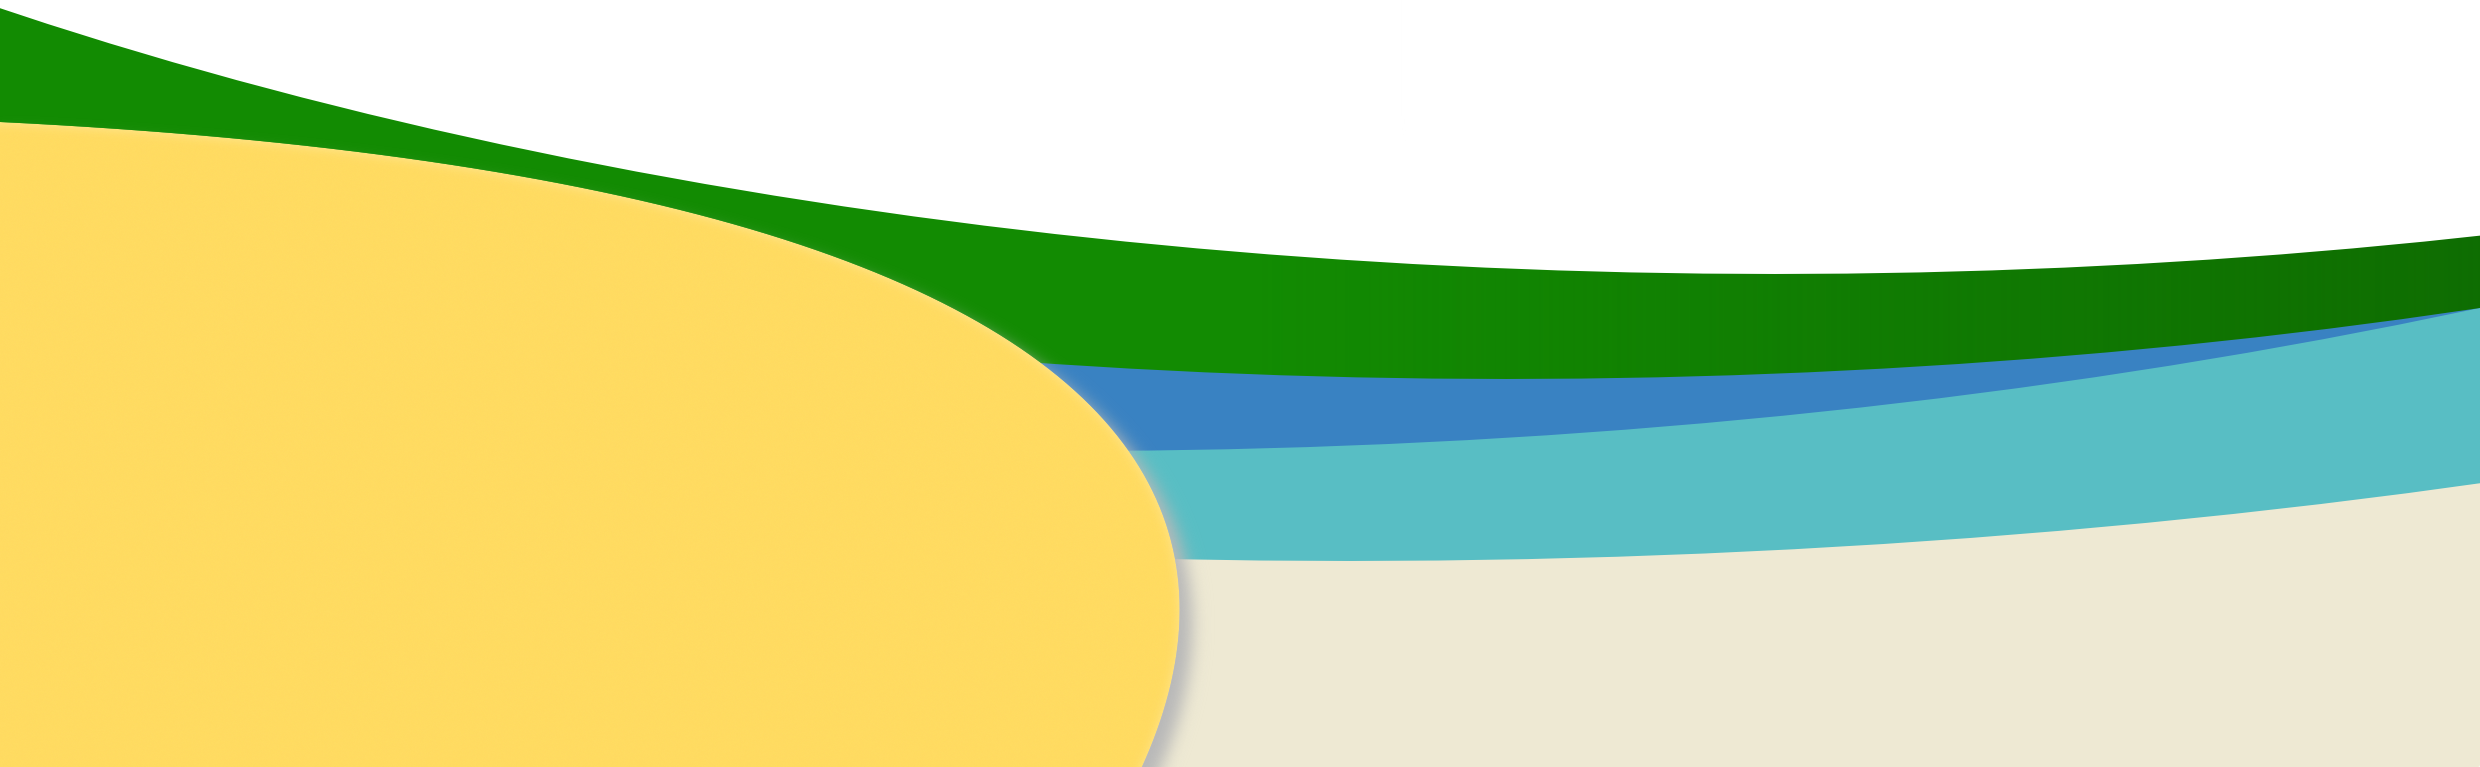
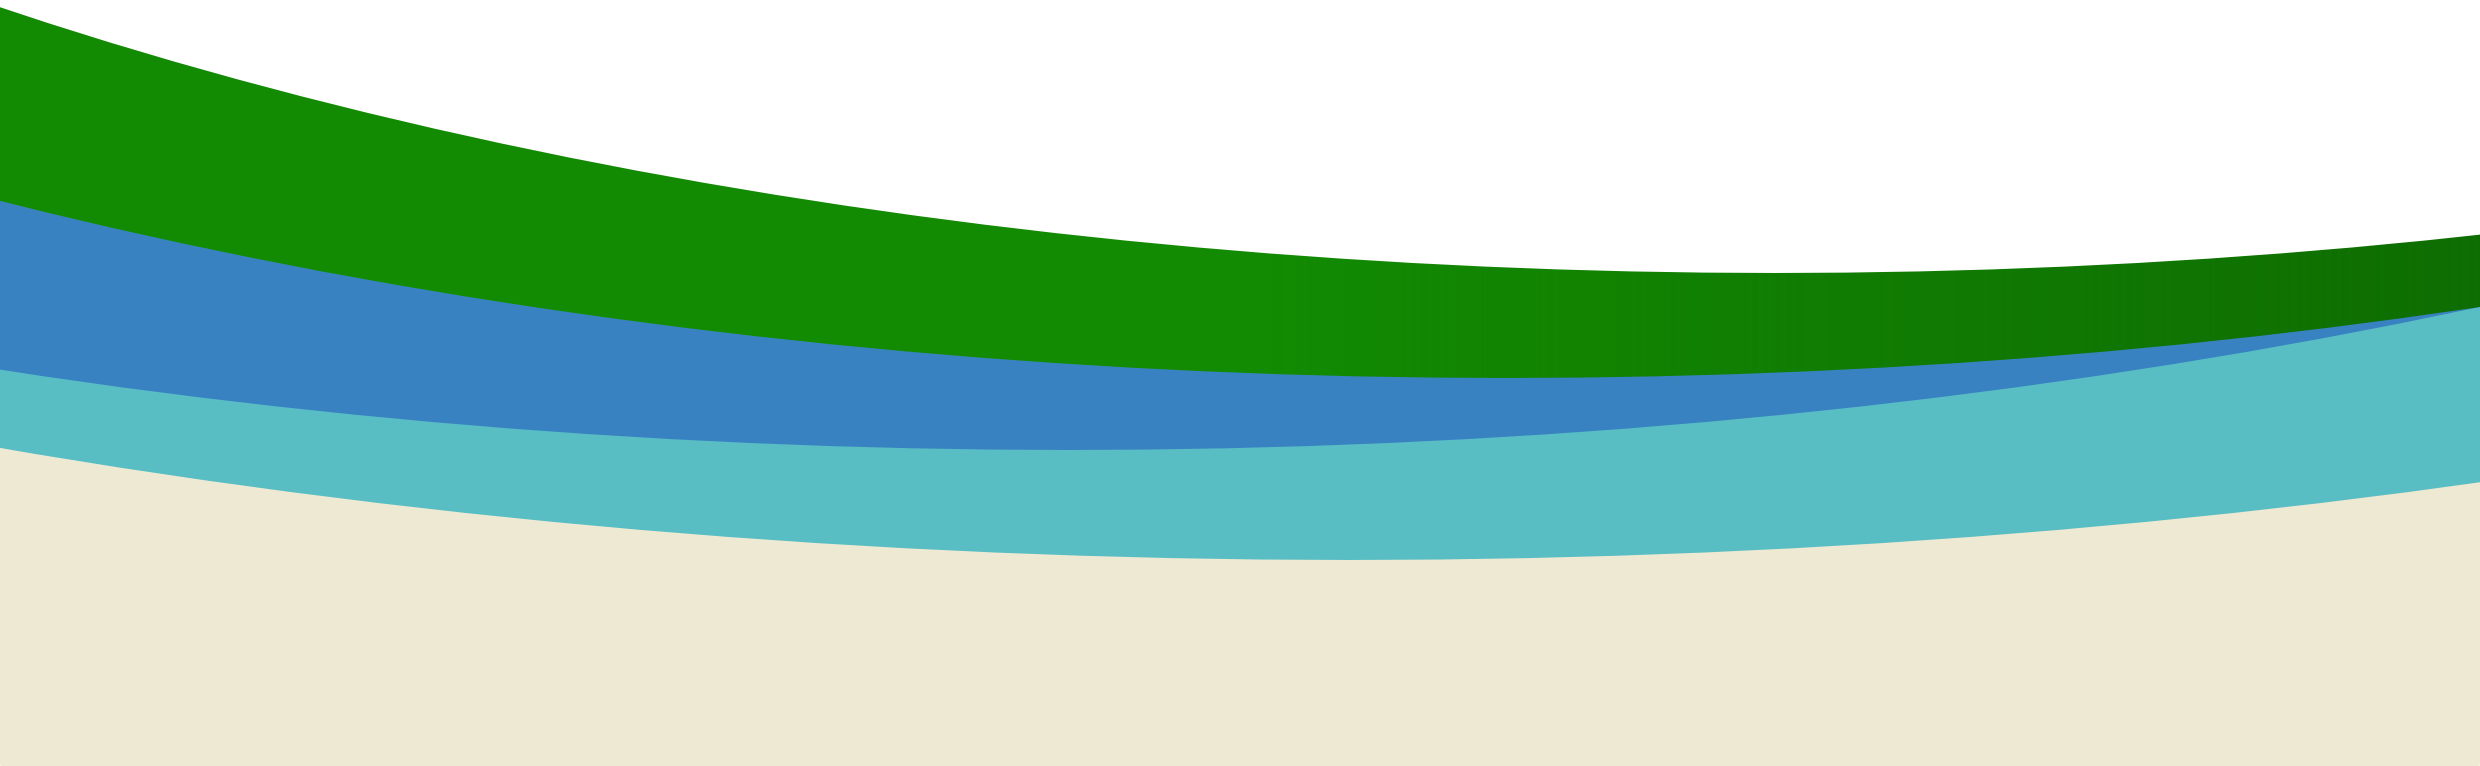
replaced bottom bg

diff --git a/style.css b/style.css
@@ -35,5 +35,6 @@ aside {
 }
 
 footer {
-  margin-top: 140px;
+  font-size: 1.4rem;
+  margin: 50px 0 350px 0;
 }
